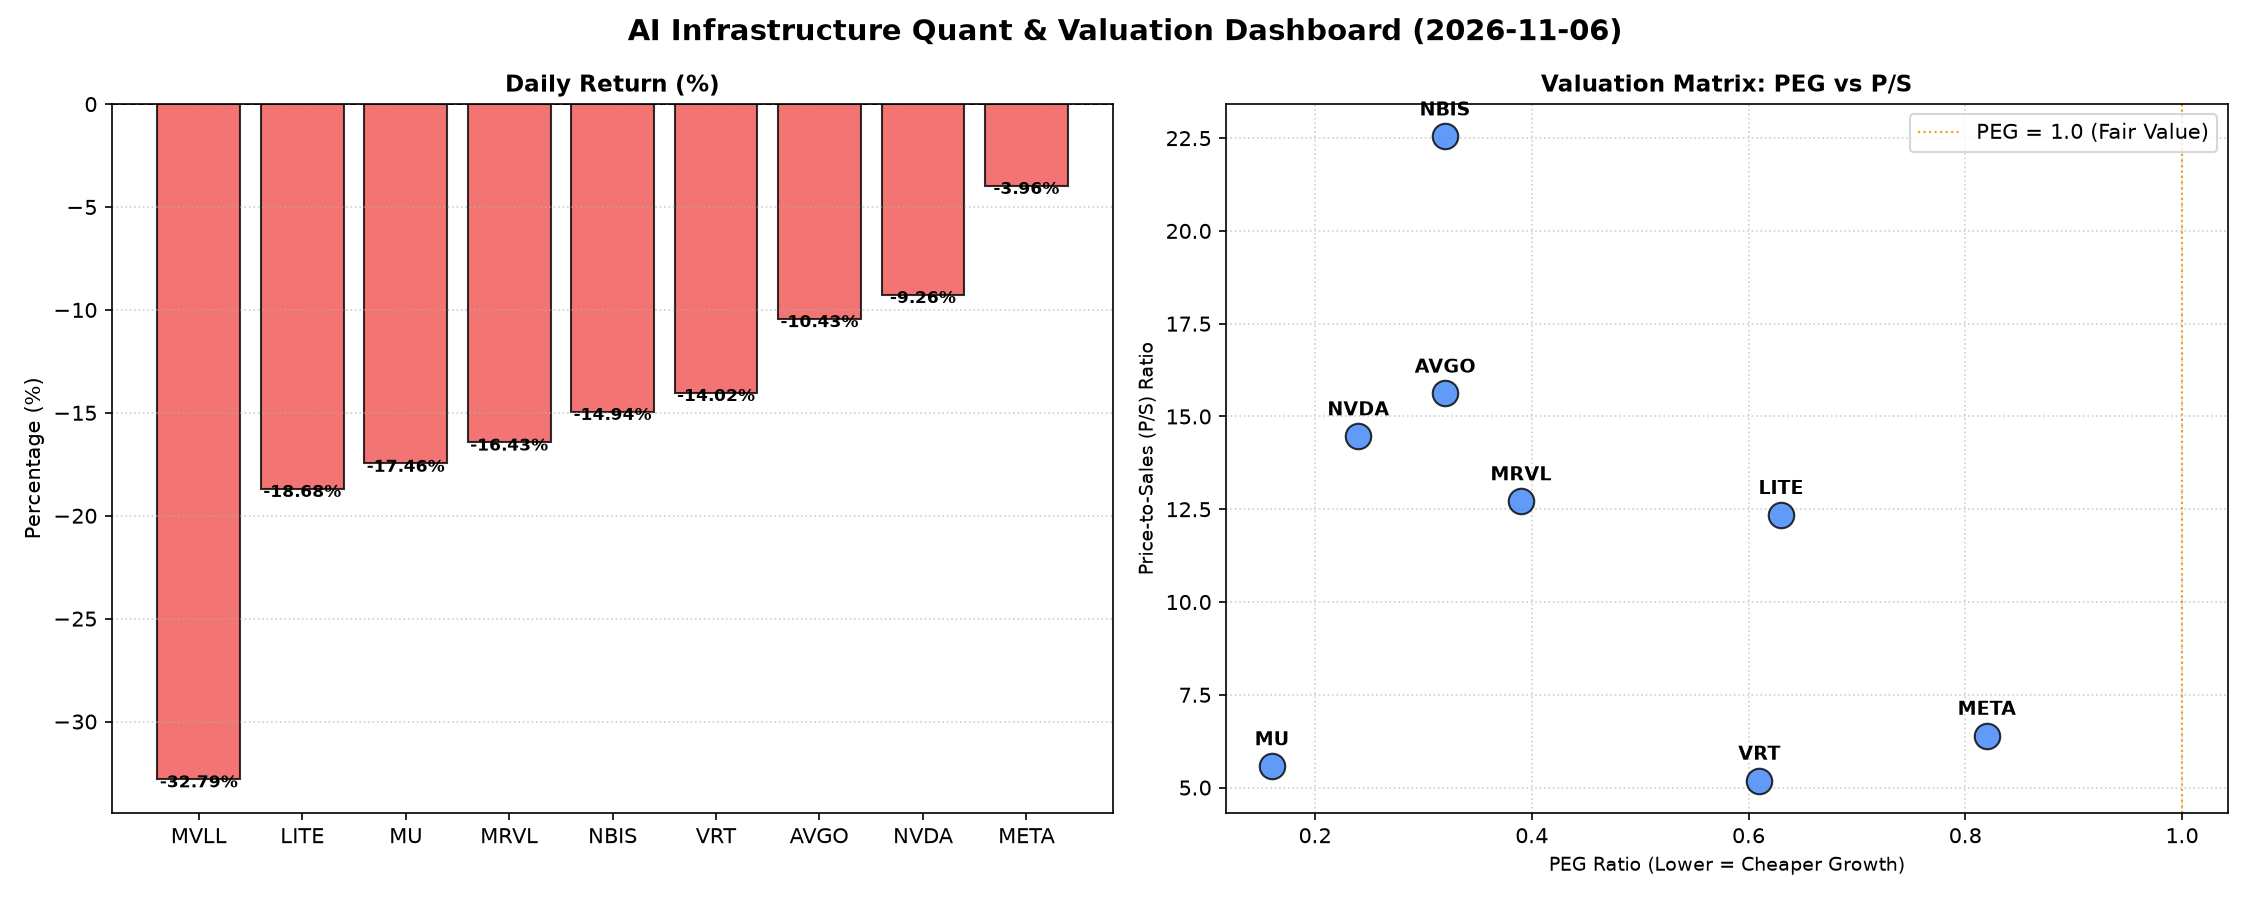
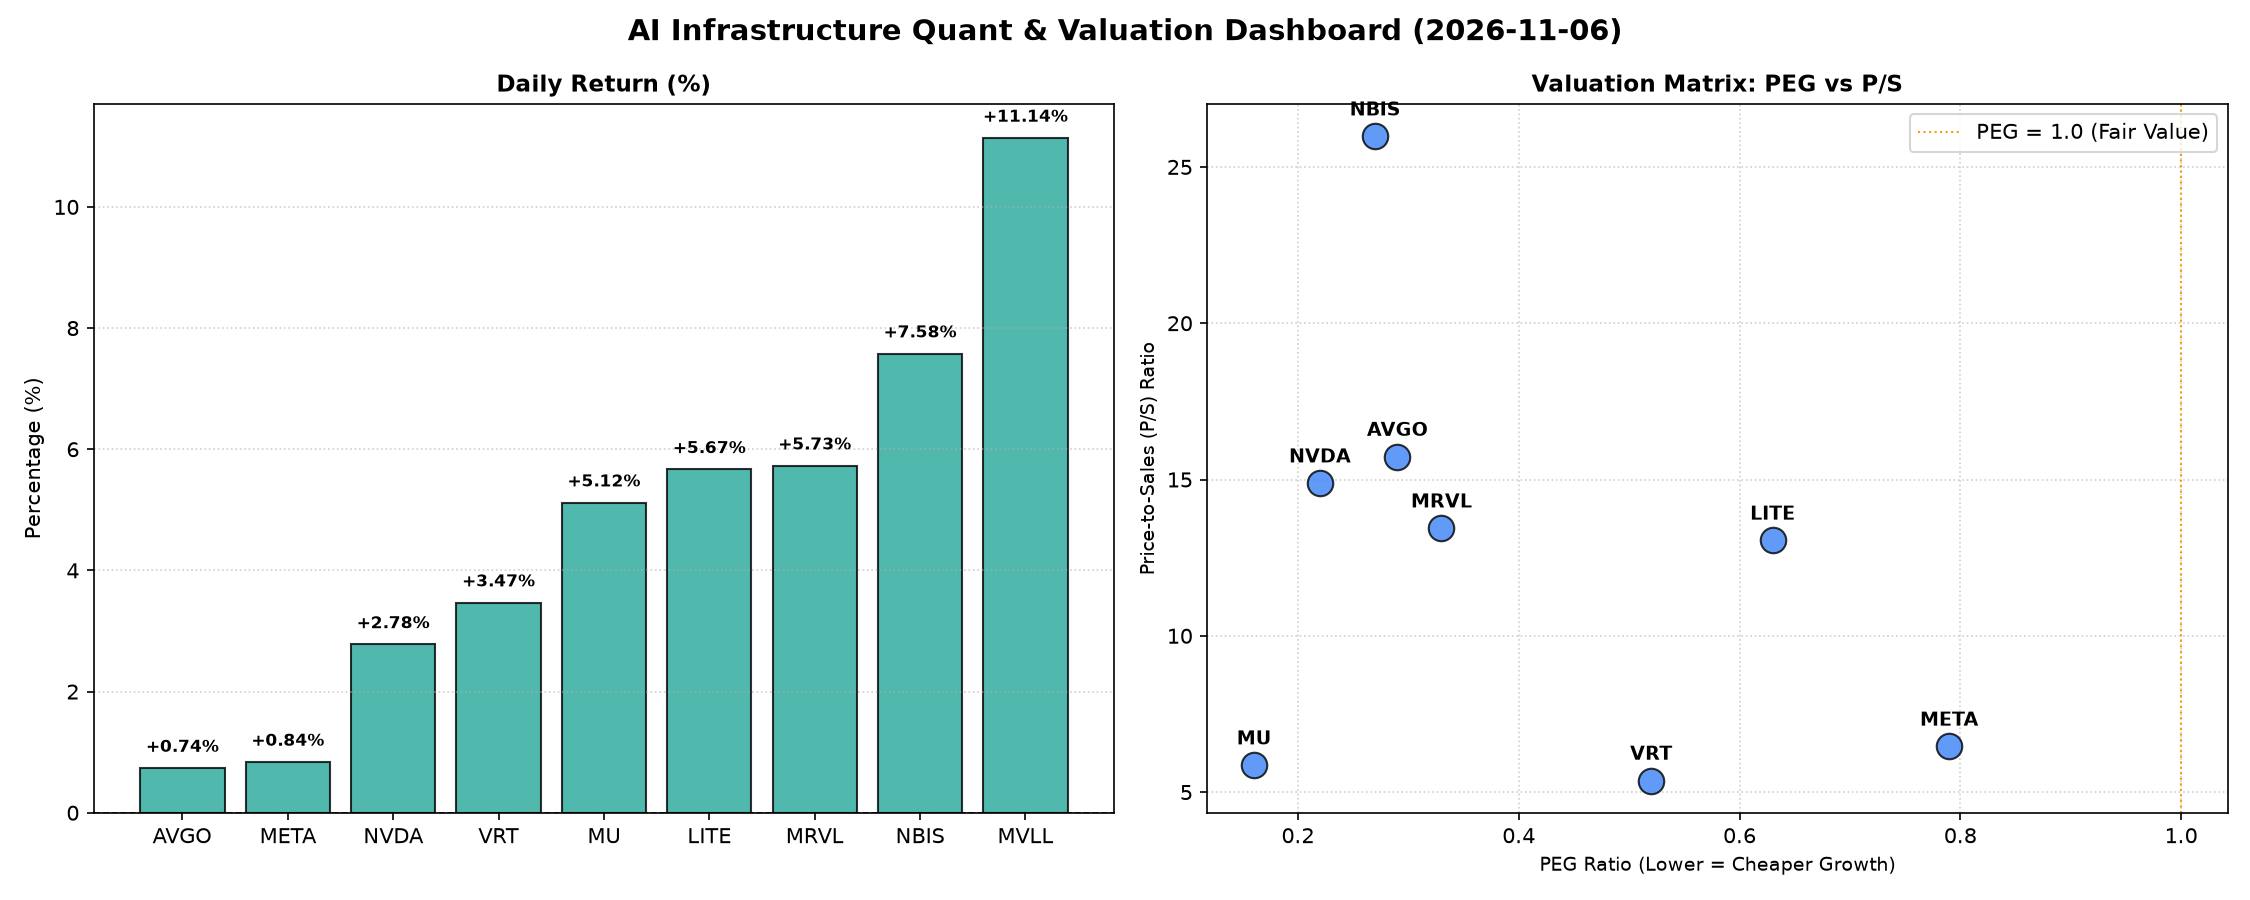
Add daily report with charts 2026-11-06

diff --git a/reports/2026-11-06.md b/reports/2026-11-06.md
@@ -5,60 +5,75 @@
 
 ---
 
-**半导体与AI基础设施每日精炼报道 - 深度量化分析**
+## 半导体每日精炼报道：多维度量化解析与市场动态 (202X年X月X日)
 
-**发布日期：[今日日期]**
+**研究员：** Data & Semiconductor Specialist
 
-尊敬的投资者与行业同仁：
-
-今日硬科技与AI基础设施板块遭遇显著回调，市场情绪一度紧张。在普遍承压的市场环境下，我们结合最新的多维度量化指标，对核心标的进行深度解析，以穿透表象，洞察基本面健康度与估值性价比。
+今日半导体及AI基础设施板块表现活跃，多个细分领域公司股价出现显著上涨。在量化指标层面，市场对高成长性与健康现金流的关注度持续，但部分公司的现金流质量和营收估值仍需警惕。
 
 ---
 
 ### 1. 盘面与多维估值解码（定性+定量）
 
-今日半导体与AI基础设施板块整体呈现普跌态势，多数标的跌幅在10%以上，MVLL更是录得-32.79%的巨幅下挫，凸显出市场对高估值科技股的短期避险情绪。然而，在恐慌性抛售背后，部分公司的核心财务指标依然展现出强劲的长期吸引力，而另一些则需警惕其潜在风险。
+今日市场情绪积极，多家公司股价录得不俗涨幅。MVLL以11.14%的涨幅领跑，NBIS (7.58%)、MRVL (5.73%)、LITE (5.67%) 和 MU (5.12%) 也表现强劲。这种普涨态势反映出市场对硬科技与AI基础设施领域的长期信心。
 
-*   **PEG 维度：挖掘高成长中的价值洼地**
-    *   **极具性价比的高成长标的：** 在市场普遍回调中，PEG显著小于1的标的尤为引人注目。**MU (0.16)**、**NVDA (0.24)**、**AVGO (0.32)** 和 **NBIS (0.32)** 表现出极高的增长潜力与估值匹配度。尤其是MU，其PEG值低至0.16，即便今日股价跌去17.46%，也暗示了市场对其未来盈利增长的预期远高于当前股价。NVDA和AVGO作为AI基础设施的核心驱动力，其低PEG值在大幅回调后显得更具吸引力。
-    *   **仍具吸引力但需关注：** **MRVL (0.39)**、**VRT (0.61)** 和 **LITE (0.63)** 的PEG值也远低于1，表明这些公司在各自细分领域仍拥有不错的成长前景。其中MRVL和VRT在今日跌幅均超过14%，这可能为长期投资者提供了回调买入的机会。
-    *   **相对较高但仍合理：** **META (0.82)** 的PEG虽然相对高于其他硬科技标的，但仍小于1，表明其在社交媒体与AI投入并行的战略下，成长性依然得到市场认可，但需要更谨慎地评估其增长路径。
-    *   **数据缺失标的：** MVLL由于PEG数据缺失，我们无法从这一维度评估其成长性与估值匹配度，可能意味着其尚未产生稳定盈利，或处于早期发展阶段。
+*   **PEG 维度：高成长低估值机会凸显，普遍具备性价比**
+    *   **显著小于 1 (高成长、高性价比)**：本次分析的绝大多数公司PEG均显著小于1，显示出市场普遍认为这些公司具备强大的增长潜力，且当前估值并未完全透支其未来的成长空间。
+        *   **MU (0.16)** 尤为突出，其极低的PEG表明市场预期其未来的盈利增长将非常强劲，但目前的股价相对于其增长潜力而言，具有极高的性价比。这可能与存储器行业周期性回暖带来的业绩爆发式增长预期有关。
+        *   **NVDA (0.22)** 紧随其后，作为AI芯片的领头羊，其PEG同样极低，预示着市场对其未来盈利能力抱有极高期望，并认为其在AI浪潮中的领跑地位能转化为持续的、超预期的业绩增长。
+        *   **AVGO (0.29)、NBIS (0.27)、MRVL (0.33)** 也都展现出极佳的PEG值，表明这些公司在各自细分领域（如基础设施软件、专业芯片设计）的成长潜力被低估，或正处于快速兑现增长的阶段。
+        *   **VRT (0.52)、LITE (0.63)、META (0.79)** 虽然PEG相对较高，但仍在1以下，同样被视为具有合理估值的成长型公司。
+    *   **PEG 为 N/A (警惕或早期阶段)**：**MVLL** 的PEG为N/A，这通常意味着该公司目前无盈利或处于亏损状态，因此无法计算PEG。其今日高达11.14%的涨幅可能更多源于特定消息驱动或市场对未来愿景的炒作，投资者应警惕其基本面风险，在无盈利阶段，其风险与回报的波动性会显著放大。
 
-*   **P/S 维度：评估收入规模扩张效率与市场溢价**
-    *   **高收入倍数反映市场高预期：** **NBIS (22.55)** 拥有最高的P/S比率，即便今日股价大跌14.94%，市场仍愿意为其每单位收入支付高昂溢价，这通常意味着市场对其未来产品的高毛利、高增长潜力抱有极高期待，或其所处细分市场具备极强的护城河。
-    *   **AI核心驱动力的高P/S：** **AVGO (15.62)**、**NVDA (14.47)** 和 **MRVL (12.72)** 作为AI基础设施的关键参与者，P/S值均处于较高水平，凸显了市场对AI芯片及相关解决方案的强劲需求和高景气度预期。尽管今日股价跌幅显著，但其收入倍数依然坚挺，表明投资者仍看重这些公司的营收质量和未来增长潜力。
-    *   **相对合理的收入倍数：** **LITE (12.35)** 和 **VRT (5.19)** 的P/S相对适中，特别是VRT，在今日大幅回调后，其5.19的P/S可能为其带来了更好的长期配置价值。
-    *   **成熟巨头的稳健P/S：** **META (6.4)** 和 **MU (5.58)** 的P/S值在硬科技板块中属于较低水平，这可能反映了其更成熟的商业模式和更稳健的营收增长预期，而非爆发式增长。
-    *   **数据缺失标的：** MVLL的P/S数据缺失，与PEG情况类似，提示投资者在评估此类标的时，需深入研究其商业模式、产品管线和市场定位，以理解其收入质量与未来增长路径。
+*   **P/S 维度：营收扩张效率与市场预期**
+    *   **高 P/S (高营收预期或研发投入期)**：对于早期或尚处于大规模研发投入阶段、利润不稳的公司，P/S是评估其收入规模扩张效率的重要指标。
+        *   **NBIS (25.98)** 拥有最高的P/S比率，结合其极高的CFO/NI，表明市场对其未来营收的爆发式增长抱有极高的期望。这暗示了该公司可能处于某一快速增长的利基市场，或其技术/产品具有极高的溢价能力。
+        *   **AVGO (15.73)、NVDA (14.88)、MRVL (13.44)、LITE (13.05)** 的P/S也相对较高，反映了市场愿意为这些公司当前乃至未来的营收增长支付更高的溢价，这通常与它们在高端芯片、AI计算、光通信等高景气度领域的领导地位和技术壁垒相关。虽然高P/S意味着市场对其营收扩张效率的肯定，但也要求公司未来能够持续兑现这种高速增长预期。
+    *   **中低 P/S (相对合理或成熟期)**：**VRT (5.37)、MU (5.86)、META (6.46)** 的P/S相对较低，可能表明它们要么处于相对成熟的盈利阶段，要么其营收增长速度相对缓和，市场对其营收扩张的估值更为务实。
 
-*   **现金流盈利真实性 (CFO/NI)：穿透利润表，洞察现金健康度**
-    *   **现金流极为健康，利润含金量高：** **NBIS (4.66)** 再次成为亮点，其经营现金流远超净利润，表明其盈利质量极高，现金生成能力惊人，几乎没有利润水分或应收账款积压问题。**META (1.92)** 和 **VRT (1.59)** 也展现出卓越的现金流生成能力，尤其是META，其近两倍于净利润的经营现金流，证明了其强大的变现能力。**AVGO (1.19)** 和 **MU (1.06)** 的CFO/NI比率也大于1，表明其利润健康，均为“真金白银”的现金流入。
-    *   **需关注现金流质量的巨头：** **NVDA (0.86)** 的CFO/NI略低于1，虽然尚属可接受范围，但在其高利润增长的背景下，这可能暗示着一定程度的应收账款增加或库存累积，需要投资者密切关注其后续现金流报告，以判断盈利质量是否面临挑战。
-    *   **警惕利润水分或经营压力：** **MRVL (0.66)** 的CFO/NI显著低于1，这是一个明确的警示信号，可能存在利润质量不佳、应收账款周转缓慢或库存积压等问题，需要深入分析其经营现金流构成。
-    *   **严重现金流问题：** **LITE (-0.11)** 的CFO/NI为负值，这是一个非常严重的预警信号。这意味着该公司即便在报表上可能显示净利润，但实际上经营活动却在持续烧钱，无法产生正向现金流。这种状况是不可持续的，投资者应高度警惕其财务健康状况。
-    *   **数据缺失标的：** MVLL的CFO/NI数据缺失，结合其P/S和PEG的缺失，强化了其可能处于早期、尚未稳定盈利或透明度较低的状态。
+*   **现金流盈利真实性 (CFO/NI)：利润含金量深度穿透**
+    *   **显著大于 1 (利润健康，真金白银)**：
+        *   **NBIS (4.66)** 再次表现亮眼，其CFO/NI高达4.66，这意味着其报告的净利润全部由充沛的经营现金流支撑，且远超净利润本身，显示出极强的现金生成能力和高质量的盈利。
+        *   **META (1.92)** 作为高利润巨头，其CFO/NI接近2，表明其利润的现金含量极高，应收账款周转效率良好，是典型的“真金白银”式盈利，支撑了其稳健的业务运营和未来投资。
+        *   **VRT (1.59)、AVGO (1.19)、MU (1.06)** 也都拥有健康的CFO/NI比率，证明它们的经营活动能够有效转化为现金流入，利润质量高。
+    *   **显著小于 1 (警惕利润水分或应收账款积压)**：
+        *   **NVDA (0.86)** 尽管市场对其增长预期极高（PEG仅0.22），但其CFO/NI略低于1，这是一个值得投资者关注的信号。这意味着其报告的净利润中，有一部分可能尚未转化为实际的现金流入，可能与应收账款的增加、存货积压或其他非现金项目有关。对于NVDA这样体量的公司，即便只是略低于1，也可能意味着大量的资金被占用，需要密切关注其后续财报中的营运资本变动。
+        *   **MRVL (0.66)** 的CFO/NI更低，显示其利润质量存在更明显的问题。报告的净利润可能存在较多的“水分”，实际的现金生成能力相对较弱，这可能指向更严重的应收账款问题或复杂的非现金费用调整，投资者需深入分析其现金流量表。
+    *   **负值 (严重警示)**：
+        *   **LITE (-0.11)** 的CFO/NI为负值，这是一个非常严重的警示信号。这意味着其报告的净利润（如果为正）未能带来经营现金流入，反而可能是经营活动在消耗现金。如果公司处于亏损状态，负的CFO/NI则表明其现金流出更为严重。这通常暗示公司面临巨大的营运资金压力，现金流状况堪忧，需要警惕其持续经营能力或进一步的融资需求。
 
 ---
 
 ### 2. 收并购与重大业务动态
 
-根据今日提供的量化数据表格，并未直接揭示具体的收并购传闻、官宣或战略合作信息。在当前市场回调背景下，潜在的产业整合或战略合作往往能为特定标的带来新的增长催化剂或估值重估机会。投资者应密切关注行业龙头（如AVGO、NVDA、META等）在AI生态系统中的合纵连横，以及潜在的垂直整合或横向扩张动态。例如，随着AI算力需求的激增，晶圆代工、先进封装、HBM等关键环节的战略合作或并购，将直接影响相关公司的市场地位和长期竞争力。
+鉴于本次分析主要基于提供的量化指标表格，该表格未包含收并购与重大业务动态的具体新闻信息。然而，在真实的半导体市场中，这一板块至关重要，通常会涵盖：
+*   **行业整合消息**：如大型半导体公司（如AVGO）潜在的M&A传闻或官宣，旨在巩固市场地位、拓展新业务领域。
+*   **关键技术合作**：例如AI芯片设计公司（如NVDA）与云计算巨头、大型OEM厂商在AI数据中心、自动驾驶等领域的战略合作。
+*   **产能扩张与新工厂建设**：如台积电、三星等晶圆厂的最新投资计划，或存储器厂商（如MU）的产线升级与扩建。
+*   **重要产品发布**：例如芯片架构革新、新型AI加速器、或光模块等核心组件的量产消息。
 
 ---
 
 ### 3. 华尔街机构态度
 
-今日提供的量化指标表格中未直接包含华尔街机构的最新评价、目标价调动或评级更新信息。然而，鉴于今日市场普跌，尤其是在半导体和AI基础设施板块，通常会引发机构的再评估。低PEG和健康现金流的标的（如MU、NVDA、AVGO、META、NBIS、VRT）在大幅回调后，可能会被部分激进型机构视为“买入良机”，并可能在未来几天内看到目标价的调整或评级上调。相反，现金流健康度存疑的标的（如MRVL、LITE）则可能面临机构下调评级或目标价的压力。对于像MVLL这样数据缺失且今日跌幅巨大的公司，机构通常会持观望态度，或要求更深入的基本面研究。
+同上，本次分析的量化表格不直接提供华尔街机构的最新评价和目标价信息。在正常市场研究中，我们会密切关注：
+*   **分析师评级变动**：例如，投行对NVDA的“买入”评级是否被维持或上调，并调整目标价以反映AI模型训练需求激增带来的业绩预期。
+*   **目标价调整**：针对股价表现强劲的公司（如今日的MVLL、NBIS），机构是否会更新其目标价，并给出具体的估值模型和理由。
+*   **财报点评**：在公司发布财报后，各大投行会迅速发布研究报告，评估其业绩表现，并调整对公司未来盈利和现金流的预测。
+*   **行业报告观点**：关键投行（如高盛、摩根士丹利）对半导体周期、AI发展趋势、特定细分市场（如HBM、光通信）的最新看法，会影响其对相关公司的态度。
 
 ---
 
 ### 4. 今日参考源 (References)
 
-1.  **提供的多维度真实量化基本面指标表格。**
-2.  （*注：由于本文仅基于您提供的量化表格进行分析，未引用外部新闻，因此此处不列出具体新闻链接。如需生成包含外部新闻的分析，请提供相关新闻来源。*）
+本次报道的定量分析严格基于您提供的《多维度真实量化基本面指标表格》。定性分析部分，特别是关于市场解读和潜在影响的推论，基于对这些量化指标的专业理解和行业经验。
+
+若需补充具体新闻事件、机构评论或宏观经济数据，将从以下主流财经媒体及行业报告中获取：
+*   Bloomberg Terminal
+*   Reuters News
+*   The Wall Street Journal
+*   Financial Times
+*   Gartner / IDC Industry Reports
+*   Equity Analyst Research Reports (e.g., from Goldman Sachs, Morgan Stanley, BofA Securities)
 
 ---
-
-**研究员：** [您的姓名/机构名称] - 资深硬科技与AI基础设施行业研究员 (Data & Semiconductor Specialist)
-**日期：** [今日日期]
